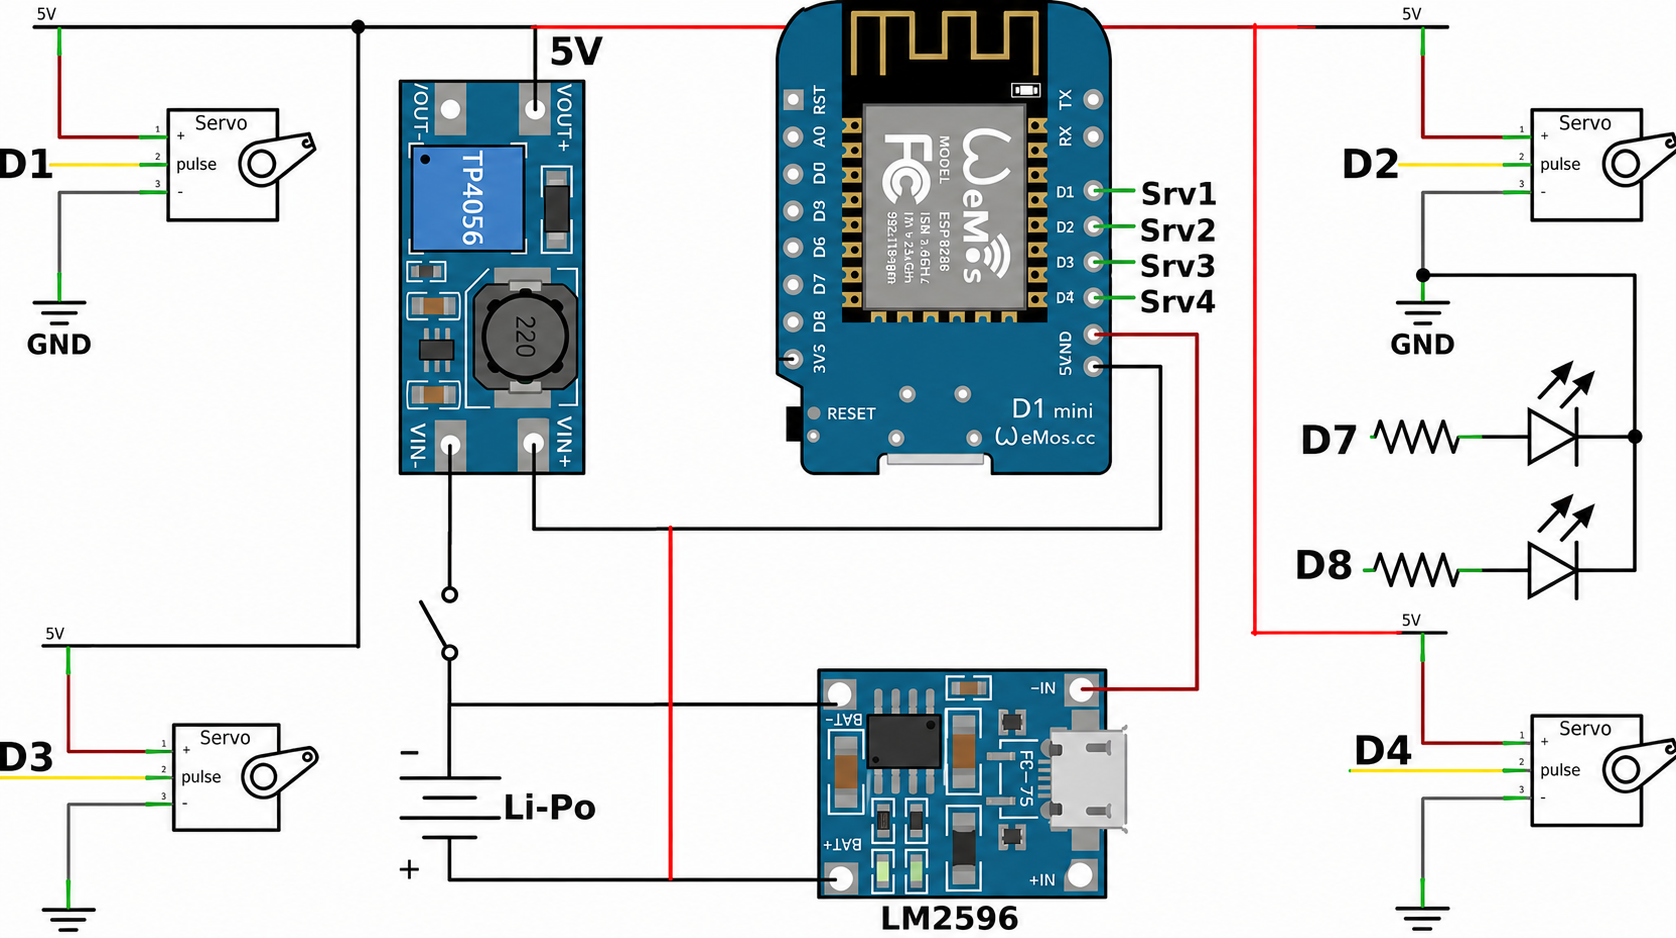
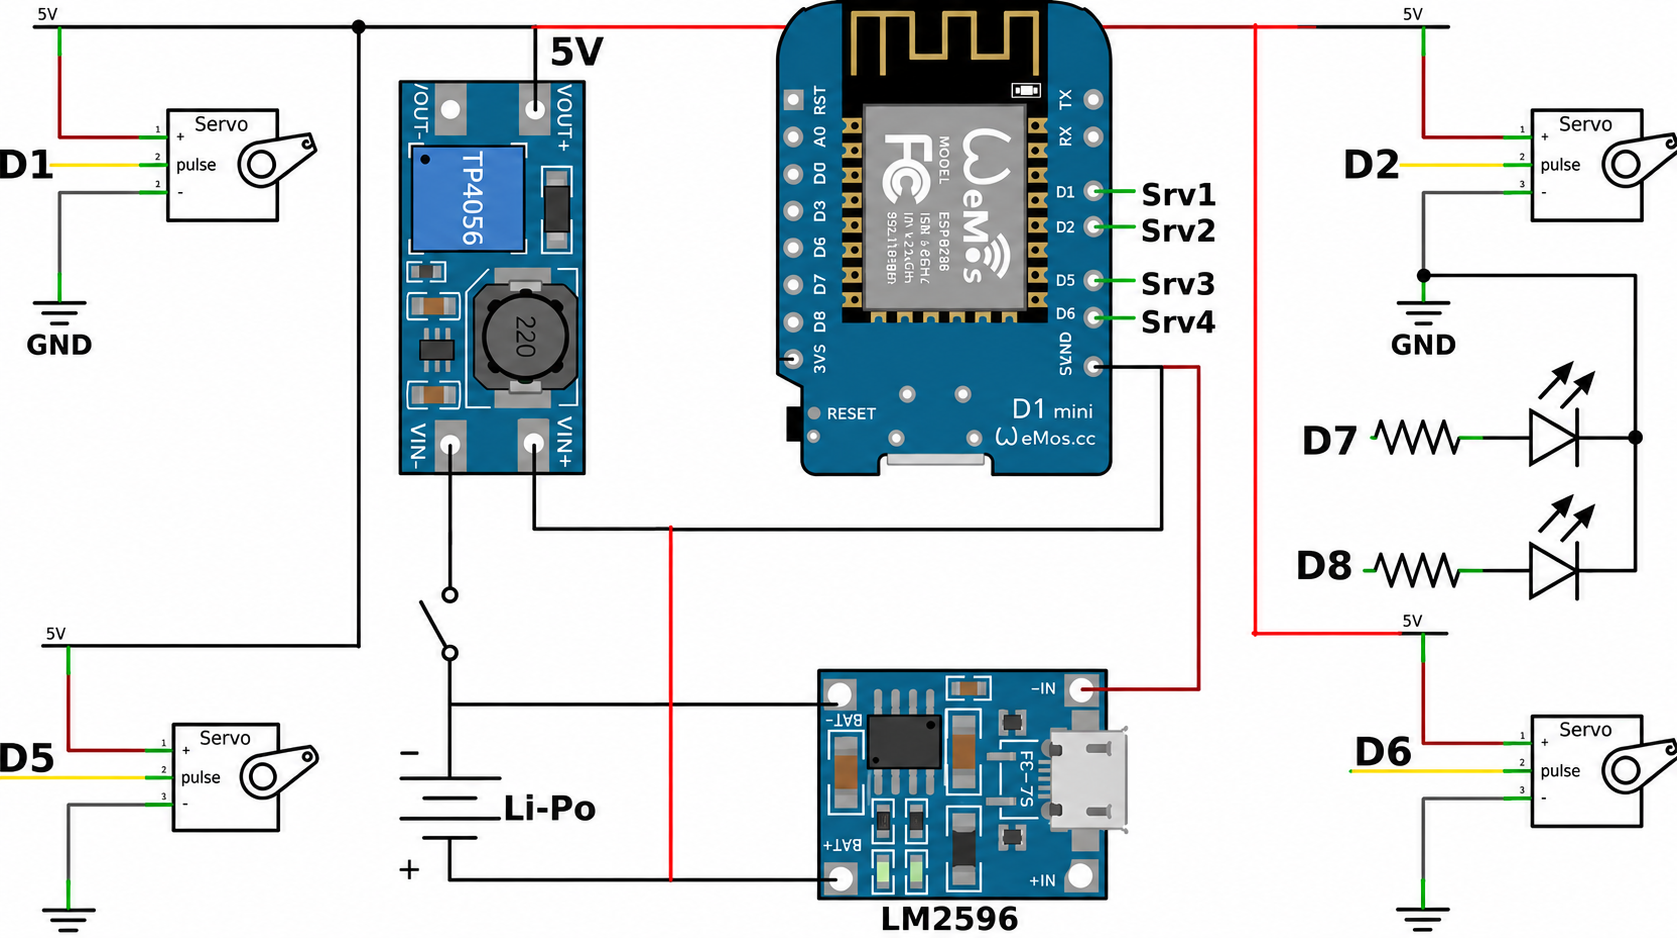
updated

diff --git a/README.md b/README.md
@@ -1,25 +1,26 @@
 <div align="center">
-  <h1>🤖 MiniQ</h1>
+  <h1>🤖 Quaddle</h1>
   <p><strong>The World’s Simplest Quadruped Robot</strong></p>
   
   <p>
     <img src="https://img.shields.io/badge/build-passing-brightgreen?style=for-the-badge" alt="Build passing"/>
     <img src="https://img.shields.io/badge/platform-ESP8266-blue?style=for-the-badge" alt="Platform Badge"/>
+    <img src="https://img.shields.io/badge/platform-ESP32-red?style=for-the-badge" alt="Platform Badge"/>
   </p>
 </div>
 
 <br />
 
-> **MiniQ** is a beginner-friendly, Wi-Fi-controlled quadruped robot powered by the ESP8266 (Wemos D1 Mini). Designed to be the "world's simplest" robot dog, it utilizes a 1-DOF (Degree of Freedom) design per leg, eliminating the need for complex inverse kinematics or heavy mathematics. The robot hosts its own web interface, allowing you to control it directly from a browser without installing any apps.
+> **Quaddle** is a beginner-friendly, Wi-Fi-controlled quadruped robot powered by the ESP8266 / ESP32 . Designed to be the "world's simplest" robot dog, it utilizes a 1-DOF (Degree of Freedom) design per leg, eliminating the need for complex inverse kinematics or heavy mathematics. The robot hosts its own web interface, allowing you to control it directly from a browser without installing any apps.
 
 ---
 
 ## 🌟 Features
 
-- 🛠 **Simple Hardware:** Uses only 4 servos and common, cheap components.
-- 📶 **Wi-Fi Control:** Controlled via a mobile-friendly web interface hosted on the ESP8266.
-- 📱 **No App Required:** Works on any device with a modern web browser.
-- 🧩 **Easy Assembly:** Fully 3D printed with a snap-in design for servos.
+- **Simple Hardware:** Uses only 4 servos and common, cheap components.
+- **Wi-Fi Control:** Controlled via a mobile-friendly web interface hosted on the ESP8266 / ESP32.
+- **No App Required:** Works on any device with a modern web browser.
+- **Easy Assembly:** Fully 3D printed with a snap-in design for servos.
 
 ---
 
@@ -27,7 +28,7 @@
 
 | Component | Description / Specification |
 | :--- | :--- |
-| **Microcontroller** | Node MCU (ESP8266) |
+| **Microcontroller** | Node MCU (ESP8266) / ESP32 |
 | **Actuators** | 4x SG90 Micro Servos |
 | **Power** | 3.7V LiPo Battery |
 | **Charging** | TP4056 Charging Module (with battery protection) |
@@ -51,8 +52,8 @@ Here is the wiring diagram to help you connect all the components correctly:
 | :--- | :--- |
 | **Servo 1** | D1 |
 | **Servo 2** | D2 |
-| **Servo 3** | D3 |
-| **Servo 4** | D4 |
+| **Servo 3** | D5 |
+| **Servo 4** | D6 |
 
 ---
 
